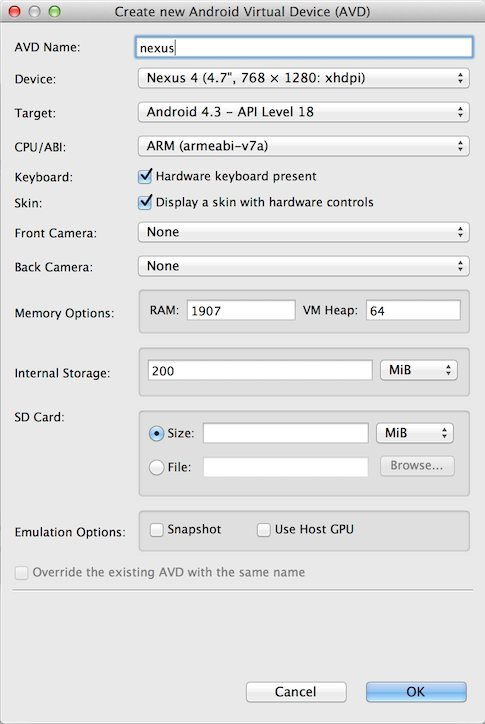
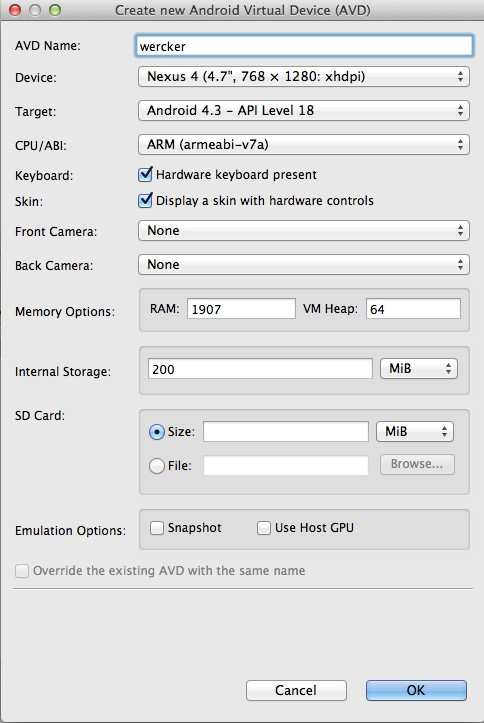
update/reread

diff --git a/source/posts/2013-09-24-Gettingstarted-with-android-part-2.md b/source/posts/2013-09-24-Gettingstarted-with-android-part-2.md
@@ -9,7 +9,7 @@ published: true
 
 
 <h4 class="subheader">
-In <a href="https://blog.wercker.com/2013/09/19/Gettingstarted-with-android-part-1.html">part I</a> of this series we dove into how to get started with a simple <a href="http://www.android.com/">Android</a> application using android studio version 0.2.9. For part 2 it's time to add some tests</h4>
+In <a href="http://blog.wercker.com/2013/09/19/Gettingstarted-with-android-part-1.html">part I</a> of this series we dove into how to get started with a simple <a href="http://www.android.com/">Android</a> application using android studio version 0.2.9. For part 2 it's time to add some tests</h4>
 
 ![wercker and android](/images/posts/android/wanda.jpg)
 
@@ -73,8 +73,8 @@ We can get the textview element in our code by calling `findViewById` on
 our main activity.
 
 Now that we can access our textview, it's time to create the test. Add a new
-package named 'tests' to com.wercker.gettingstarted and create a new class
-named 'MainActivityClass'
+package named `tests` to `com.wercker.gettingstarted` and create a new class
+called `MainActivityTest`
 
 ``` java
 package com.wercker.gettingstarted.tests;
@@ -149,125 +149,128 @@ The default settings will do just fine for our test. Launch the emulator.
 ![android emulator booting](/images/posts/android-part2/avd-booting.jpg)
 
 Booting the emulator will take some time. When you finally see the lock screen,
-fire up the terminal and go to the root of your application and run our
-instrument test.
+fire up the terminal and go to the root of your project and run our
+instrument test on the emulator.
 
 ``` text
-$ gradle connectedInstrumentTest
+$ gradle connectedCheck
 Relying on packaging to define the extension of the main artifact has been deprecated and is scheduled to be removed in Gradle 2.0
-:gettingstarted:preBuild UP-TO-DATE
-:gettingstarted:preDebugBuild UP-TO-DATE
-:gettingstarted:preReleaseBuild UP-TO-DATE
-:gettingstarted:prepareComAndroidSupportAppcompatV71800Library UP-TO-DATE
-:gettingstarted:prepareDebugDependencies
-:gettingstarted:compileDebugAidl UP-TO-DATE
-:gettingstarted:compileDebugRenderscript UP-TO-DATE
-:gettingstarted:generateDebugBuildConfig UP-TO-DATE
-:gettingstarted:mergeDebugAssets UP-TO-DATE
-:gettingstarted:mergeDebugResources UP-TO-DATE
-:gettingstarted:processDebugManifest UP-TO-DATE
-:gettingstarted:processDebugResources UP-TO-DATE
-:gettingstarted:generateDebugSources UP-TO-DATE
-:gettingstarted:compileDebug
-Note: [your location]/gettingstartedProject/gettingstarted/src/main/java/com/wercker/gettingstarted/tests/MainActivityTest.java uses or overrides a deprecated API.
+:GettingStarted:preBuild UP-TO-DATE
+:GettingStarted:preDebugBuild UP-TO-DATE
+:GettingStarted:preReleaseBuild UP-TO-DATE
+:GettingStarted:prepareComAndroidSupportAppcompatV71800Library UP-TO-DATE
+:GettingStarted:prepareDebugDependencies
+:GettingStarted:compileDebugAidl UP-TO-DATE
+:GettingStarted:compileDebugRenderscript UP-TO-DATE
+:GettingStarted:generateDebugBuildConfig UP-TO-DATE
+:GettingStarted:mergeDebugAssets UP-TO-DATE
+:GettingStarted:mergeDebugResources
+:GettingStarted:processDebugManifest UP-TO-DATE
+:GettingStarted:processDebugResources
+:GettingStarted:generateDebugSources
+:GettingStarted:compileDebug
+Note: [your location]/GettingStartedProject/GettingStarted/src/main/java/com/wercker/gettingstarted/tests/MainActivityTest.java uses or overrides a deprecated API.
 Note: Recompile with -Xlint:deprecation for details.
-:gettingstarted:dexDebug
-:gettingstarted:processDebugJavaRes UP-TO-DATE
-:gettingstarted:validateDebugSigning
-:gettingstarted:packageDebug
-:gettingstarted:assembleDebug
-:gettingstarted:preTestBuild UP-TO-DATE
-:gettingstarted:prepareTestDependencies
-:gettingstarted:compileTestAidl UP-TO-DATE
-:gettingstarted:compileTestRenderscript UP-TO-DATE
-:gettingstarted:processTestTestManifest UP-TO-DATE
-:gettingstarted:generateTestBuildConfig UP-TO-DATE
-:gettingstarted:mergeTestAssets UP-TO-DATE
-:gettingstarted:mergeTestResources UP-TO-DATE
-:gettingstarted:processTestResources UP-TO-DATE
-:gettingstarted:generateTestSources UP-TO-DATE
-:gettingstarted:compileTest
-:gettingstarted:dexTest UP-TO-DATE
-:gettingstarted:processTestJavaRes UP-TO-DATE
-:gettingstarted:packageTest UP-TO-DATE
-:gettingstarted:assembleTest UP-TO-DATE
-:gettingstarted:connectedInstrumentTest
+:GettingStarted:dexDebug
+:GettingStarted:processDebugJavaRes UP-TO-DATE
+:GettingStarted:validateDebugSigning
+:GettingStarted:packageDebug
+:GettingStarted:assembleDebug
+:GettingStarted:preTestBuild UP-TO-DATE
+:GettingStarted:prepareTestDependencies
+:GettingStarted:compileTestAidl
+:GettingStarted:compileTestRenderscript
+:GettingStarted:processTestTestManifest
+:GettingStarted:generateTestBuildConfig
+:GettingStarted:mergeTestAssets
+:GettingStarted:mergeTestResources
+:GettingStarted:processTestResources
+:GettingStarted:generateTestSources
+:GettingStarted:compileTest
+:GettingStarted:dexTest
+:GettingStarted:processTestJavaRes UP-TO-DATE
+:GettingStarted:packageTest
+:GettingStarted:assembleTest
+:GettingStarted:connectedInstrumentTest
 
 com.wercker.gettingstarted.tests.MainActivityTest > testWelcomeText[wercker(AVD) - 4.3] FAILED
     junit.framework.AssertionFailedError: Check intro text
-    at com.wercker.gettingstarted.tests.MainActivityTest.testWelcomeText(MainActivityTest.java:32)
-:gettingstarted:connectedInstrumentTest FAILED
+    at com.wercker.gettingstarted.tests.MainActivityTest.testWelcomeText(MainActivityTest.java:31)
+:GettingStarted:connectedInstrumentTest FAILED
 
 FAILURE: Build failed with an exception.
 
 * What went wrong:
-Execution failed for task ':gettingstarted:connectedInstrumentTest'.
-> There were failing tests. See the report at: file:///[your location]/gettingstartedProject/gettingstarted/build/reports/instrumentTests/connected/index.html
+Execution failed for task ':GettingStarted:connectedInstrumentTest'.
+> There were failing tests. See the report at: file:///[your location]GettingStartedProject/GettingStarted/build/reports/instrumentTests/connected/index.html
 
 * Try:
 Run with --stacktrace option to get the stack trace. Run with --info or --debug option to get more log output.
 
 BUILD FAILED
 
-Total time: 13.105 secs
+Total time: 20.109 secs
 ```
 
 So now that we've tested it, we can see the provided test was broken.
-We can easily fix it by chainging the code in the MainActivityTest class from
-`introText.equals("Hello world!")` to `introText.equals("Hello universe!")`.
+We can easily fix it by changing the code in the MainActivityTest class from
+`introText.equals("Hello universe!")` to `introText.equals("Hello world!")`.
 
 If we run it again now:
 
 ``` text
-$ gradle connectedInstrumentTest
+$ gradle connectedCheck
 Relying on packaging to define the extension of the main artifact has been deprecated and is scheduled to be removed in Gradle 2.0
-:gettingstarted:preBuild UP-TO-DATE
-:gettingstarted:preDebugBuild UP-TO-DATE
-:gettingstarted:preReleaseBuild UP-TO-DATE
-:gettingstarted:prepareComAndroidSupportAppcompatV71800Library UP-TO-DATE
-:gettingstarted:prepareDebugDependencies
-:gettingstarted:compileDebugAidl UP-TO-DATE
-:gettingstarted:compileDebugRenderscript UP-TO-DATE
-:gettingstarted:generateDebugBuildConfig UP-TO-DATE
-:gettingstarted:mergeDebugAssets UP-TO-DATE
-:gettingstarted:mergeDebugResources
-:gettingstarted:processDebugManifest
-:gettingstarted:processDebugResources
-:gettingstarted:generateDebugSources
-:gettingstarted:compileDebug
-Note: [your location]/gettingstartedProject/gettingstarted/src/main/java/com/wercker/gettingstarted/tests/MainActivityTest.java uses or overrides a deprecated API.
+:GettingStarted:preBuild UP-TO-DATE
+:GettingStarted:preDebugBuild UP-TO-DATE
+:GettingStarted:preReleaseBuild UP-TO-DATE
+:GettingStarted:prepareComAndroidSupportAppcompatV71800Library UP-TO-DATE
+:GettingStarted:prepareDebugDependencies
+:GettingStarted:compileDebugAidl UP-TO-DATE
+:GettingStarted:compileDebugRenderscript UP-TO-DATE
+:GettingStarted:generateDebugBuildConfig UP-TO-DATE
+:GettingStarted:mergeDebugAssets UP-TO-DATE
+:GettingStarted:mergeDebugResources UP-TO-DATE
+:GettingStarted:processDebugManifest UP-TO-DATE
+:GettingStarted:processDebugResources UP-TO-DATE
+:GettingStarted:generateDebugSources UP-TO-DATE
+:GettingStarted:compileDebug
+Note: [your location]GettingStartedProject/GettingStarted/src/main/java/com/wercker/gettingstarted/tests/MainActivityTest.java uses or overrides a deprecated API.
 Note: Recompile with -Xlint:deprecation for details.
-:gettingstarted:dexDebug
-:gettingstarted:processDebugJavaRes UP-TO-DATE
-:gettingstarted:validateDebugSigning
-:gettingstarted:packageDebug
-:gettingstarted:assembleDebug
-:gettingstarted:preTestBuild UP-TO-DATE
-:gettingstarted:prepareTestDependencies
-:gettingstarted:compileTestAidl UP-TO-DATE
-:gettingstarted:compileTestRenderscript UP-TO-DATE
-:gettingstarted:processTestTestManifest
-:gettingstarted:generateTestBuildConfig UP-TO-DATE
-:gettingstarted:mergeTestAssets UP-TO-DATE
-:gettingstarted:mergeTestResources UP-TO-DATE
-:gettingstarted:processTestResources
-:gettingstarted:generateTestSources
-:gettingstarted:compileTest
-:gettingstarted:dexTest UP-TO-DATE
-:gettingstarted:processTestJavaRes UP-TO-DATE
-:gettingstarted:packageTest
-:gettingstarted:assembleTest
-:gettingstarted:connectedInstrumentTest
+:GettingStarted:dexDebug
+:GettingStarted:processDebugJavaRes UP-TO-DATE
+:GettingStarted:validateDebugSigning
+:GettingStarted:packageDebug
+:GettingStarted:assembleDebug
+:GettingStarted:preTestBuild UP-TO-DATE
+:GettingStarted:prepareTestDependencies
+:GettingStarted:compileTestAidl UP-TO-DATE
+:GettingStarted:compileTestRenderscript UP-TO-DATE
+:GettingStarted:processTestTestManifest UP-TO-DATE
+:GettingStarted:generateTestBuildConfig UP-TO-DATE
+:GettingStarted:mergeTestAssets UP-TO-DATE
+:GettingStarted:mergeTestResources UP-TO-DATE
+:GettingStarted:processTestResources UP-TO-DATE
+:GettingStarted:generateTestSources UP-TO-DATE
+:GettingStarted:compileTest
+:GettingStarted:dexTest UP-TO-DATE
+:GettingStarted:processTestJavaRes UP-TO-DATE
+:GettingStarted:packageTest UP-TO-DATE
+:GettingStarted:assembleTest UP-TO-DATE
+:GettingStarted:connectedInstrumentTest
+:GettingStarted:connectedCheck
+
 BUILD SUCCESSFUL
 
-Total time: 12.467 secs
+Total time: 13.382 secs
 ```
 Now our build is successful.
+
 _note: You can also see the test being run on the screen of the emulated android device._
 
 ### Step 3: Update the wercker.yml
 
-In [part 1](https://blog.wercker.com/2013/09/19/Gettingstarted-with-android-part-1.html) we created
+Back to wercker. In [part 1](http://blog.wercker.com/2013/09/19/Gettingstarted-with-android-part-1.html) we created
 the following wercker.yml:
 
 ``` yaml
@@ -287,10 +290,10 @@ build:
       - script:
           name: run gradle
           code: |
-            gradle --full-stacktrace -q --project-cache-dir=$WERCKER_CACHE_DIR build```
+            gradle --full-stacktrace -q --project-cache-dir=$WERCKER_CACHE_DIR build
 ```
 
-We need to expand it so it will:
+We need to expand it so it will do the following:
 
 1. install the emulator
 2. create an AVD
@@ -320,9 +323,9 @@ The final thing we need to do is run the gradle task connectedInstrumentTest (or
 
 ```
     - script:
-        name: run connected instrument test
+        name: run gradle connectedCheck
         code: |
-            gradle cIT -q
+            gradle --project-cache-dir=$WERCKER_CACHE_DIR connectedCheck
 ```
 
 In summary the wercker.yml will be:
@@ -333,14 +336,21 @@ box: wercker/android
 build:
   # The steps that will be executed on build
   steps:
+    - script:
+        name: show base information
+        code: |
+          gradle -v
+          echo $ANDROID_HOME
+          echo $ANDROID_BUILD_TOOLS
+          echo $ANDROID_UPDATE_FILTER
     - android-sdk-update:
         filter: sysimg-18
     - setup-android-emulator:
         target: android-18
     - script:
-        name: run gradle checkConnected
+        name: run gradle connectedCheck
         code: |
-          gradle --project-cache-dir=$WERCKER_CACHE_DIR cIT
+          gradle --project-cache-dir=$WERCKER_CACHE_DIR connectedCheck
     - script:
         name: run gradle build
         code: |
@@ -355,12 +365,20 @@ $ git commit -am "instrument test added"
 $ git push
 ```
 
-Depending on whether your MainActivityTest class wants the textview to say
-"Hello world!" or "Hello universe", you should get either a green or a red
-build.
+On wercker you should have a green build.
+_Note: if you've skipped "Step 2:
+Preparing the emulator" you probably have a red build, because the test
+class provided expects `Hello universe!` instead of `Hello world!`._
 
-In part 3 of this post we will go into a different way of testing android apps
-on wercker. Stay tuned.
+Now let's edit the MainActivityTest again and change our test back to test for
+`Hello universe!` and push our changes.
+
+Now back on wercker, let us zoom in on the `run gradle connectedCheck` step.
+Running gradle on wercker is a lot more verbose compared to running it locally,
+however the error messages are easily spotted.
+
+That's it for now. Part 3 of this series we will go into a different way of
+testing android apps on wercker. Stay tuned.
 
 ---
 

diff --git a/source/posts/2013-09-19-Gettingstarted-with-android-part-1.md b/source/posts/2013-09-19-Gettingstarted-with-android-part-1.md
@@ -49,7 +49,8 @@ In android studio **you may get a error** about an unresolvable dependency. Andr
 
 ### Git
 
-Go to the project location in the terminal and create a `.gitignore`:
+Before adding our project to get let's create (if it doesn't exist) or modify the
+`.gitignore` in the root of the GettingStartedProject:
 
 ``` text
 # built application files
@@ -70,9 +71,10 @@ gen/
 local.properties
 .idea/workspace.xml
 .gradle
+.DS_Store
 ```
 
-Now we can initialize the repository as documented on github/bitbucket when you create a new one. After that, let's add it to wercker.
+Now we can safely initialize the repository as documented on github/bitbucket. After that, let's add it to wercker.
 
 ### Add project to wercker
 
